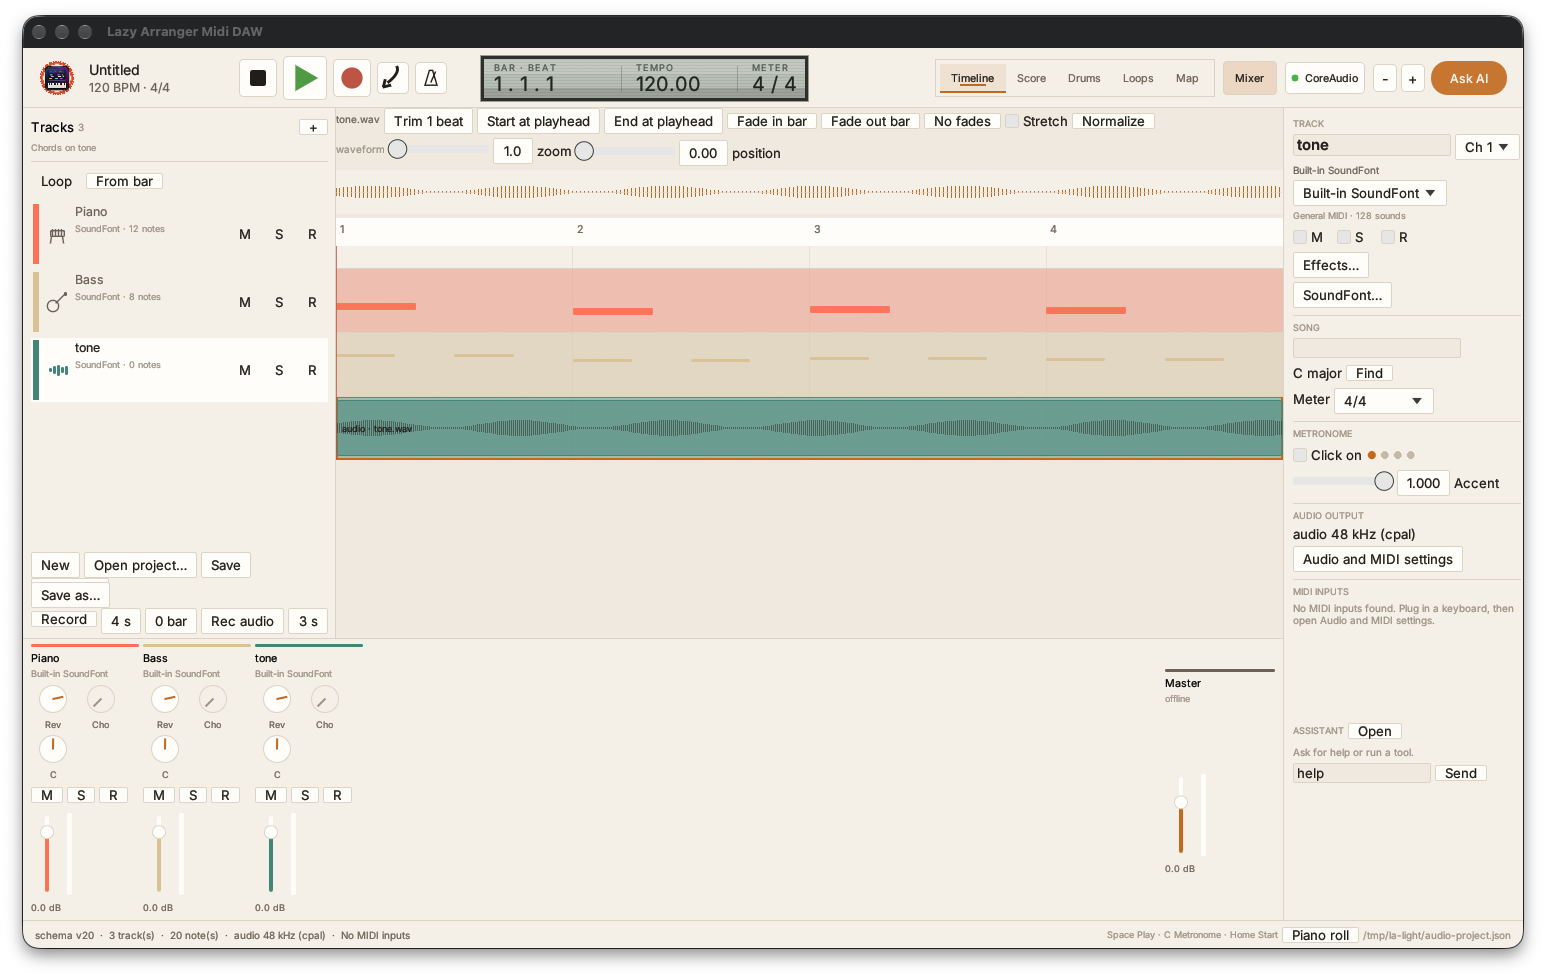
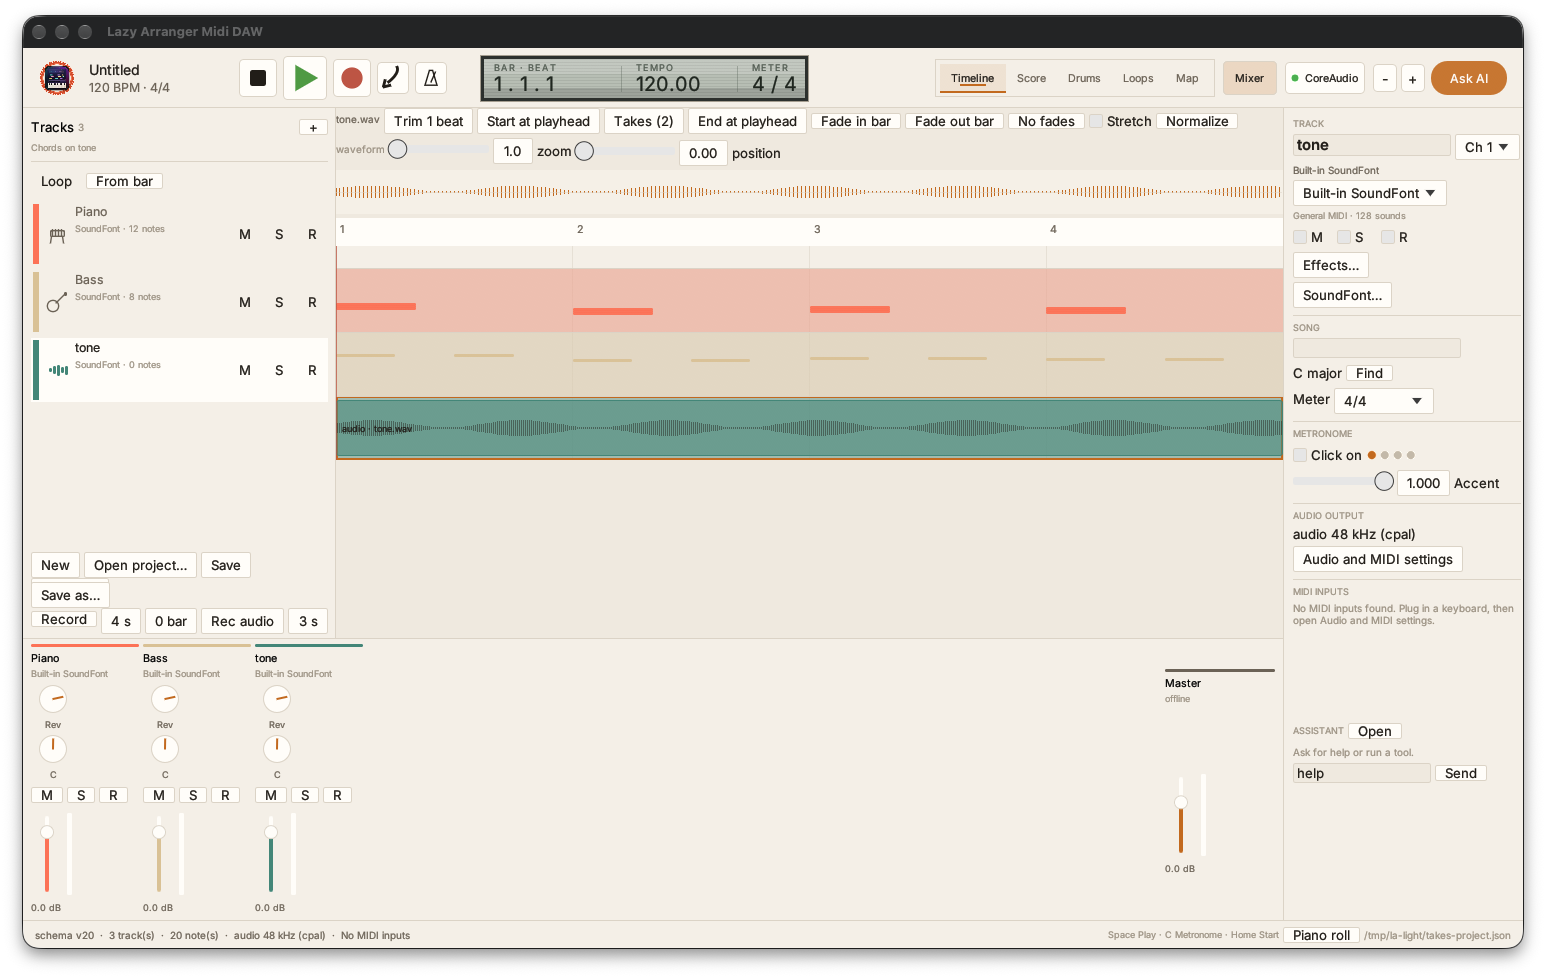
feat(audio): add a Takes button to the trim row
Shows the stored-take count and opens the Audio takes window.

768 tests pass; clippy, fmt and rustdoc clean.

Changed region(s): [[0.4036, 0.092, 0.8072, 0.1534], [0.8383, 0.9509, 0.9314, 0.9816], [0.7141, 0.9509, 0.7451, 0.9816]]

diff --git a/apps/desktop/src/app.rs b/apps/desktop/src/app.rs
@@ -10947,6 +10947,13 @@ impl eframe::App for ShellApp {
                                     ));
                                 }
                                 if ui
+                                    .button(format!("Takes ({})", project.song.tracks.iter().find(|track| track.id == *track_id).map_or(0, |track| track.takes.len())))
+                                    .on_hover_text("Store, use or remove audio takes")
+                                    .clicked()
+                                {
+                                    self.takes_open = true;
+                                }
+                                if ui
                                     .button("End at playhead")
                                     .on_hover_text("Trim the audio end to the playhead")
                                     .clicked()

diff --git a/README.md b/README.md
@@ -49,13 +49,13 @@ section below is a row, so nothing is skipped. Status: **verified**,
 
 ## Scorecard
 
-39 sections at round 430: 0 fully verified beyond their Rust subset, 39 partial,
+39 sections at round 431: 0 fully verified beyond their Rust subset, 39 partial,
 0 missing. No section is missing at row level, but several rows are partial
 because they need hardware, proprietary formats, plugin editors or a model.
 The deepest partials are styles, full score, plugin editors, L6max device pages,
 Korg PCG, built-in speech/model services and hardware acceptance.
 
-## State at round 430
+## State at round 431
 
 `cargo fmt`, `clippy -D warnings`, `cargo test --workspace` (**768 tests**) and
 rustdoc pass. A macOS bundle script creates an ad-hoc-signed

diff --git a/docs/audit/final-status.md b/docs/audit/final-status.md
@@ -186,4 +186,4 @@ For the clef layout, choose either four measures per system without clefs
 - Mixer/bus meters use cached waveform peaks for audio tracks (approximate by clip fraction); waveform caching now runs in every view.
 - Audio-reference offset is render-tested against a half-silent source.
 - Audio-reference stretch is render-tested with a ramp source.
-- Audio takes can be stored, used and removed from a small window; recording auto-stores the replaced take (`docs/audit/audio-takes.png`).
+- Audio takes can be stored, used and removed from a small window opened by the trim-row Takes button or the Windows menu; recording auto-stores the replaced take (`docs/audit/audio-takes.png`).
